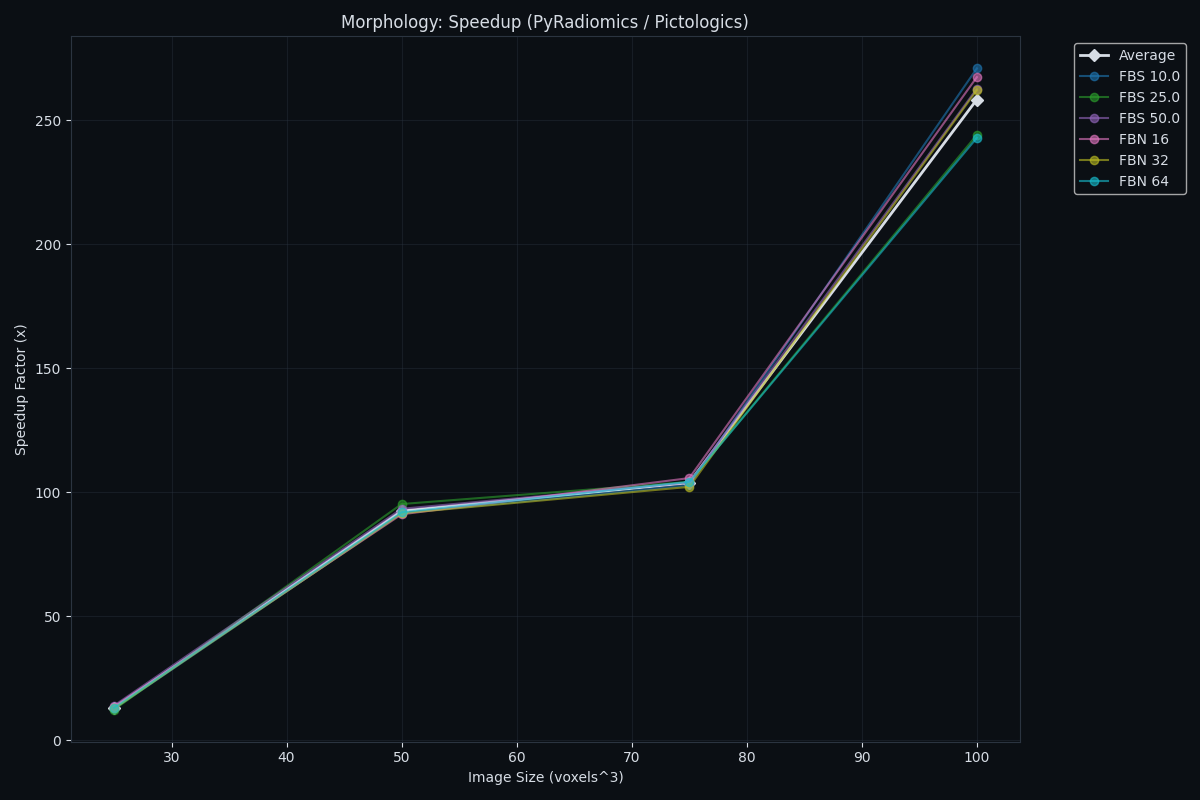
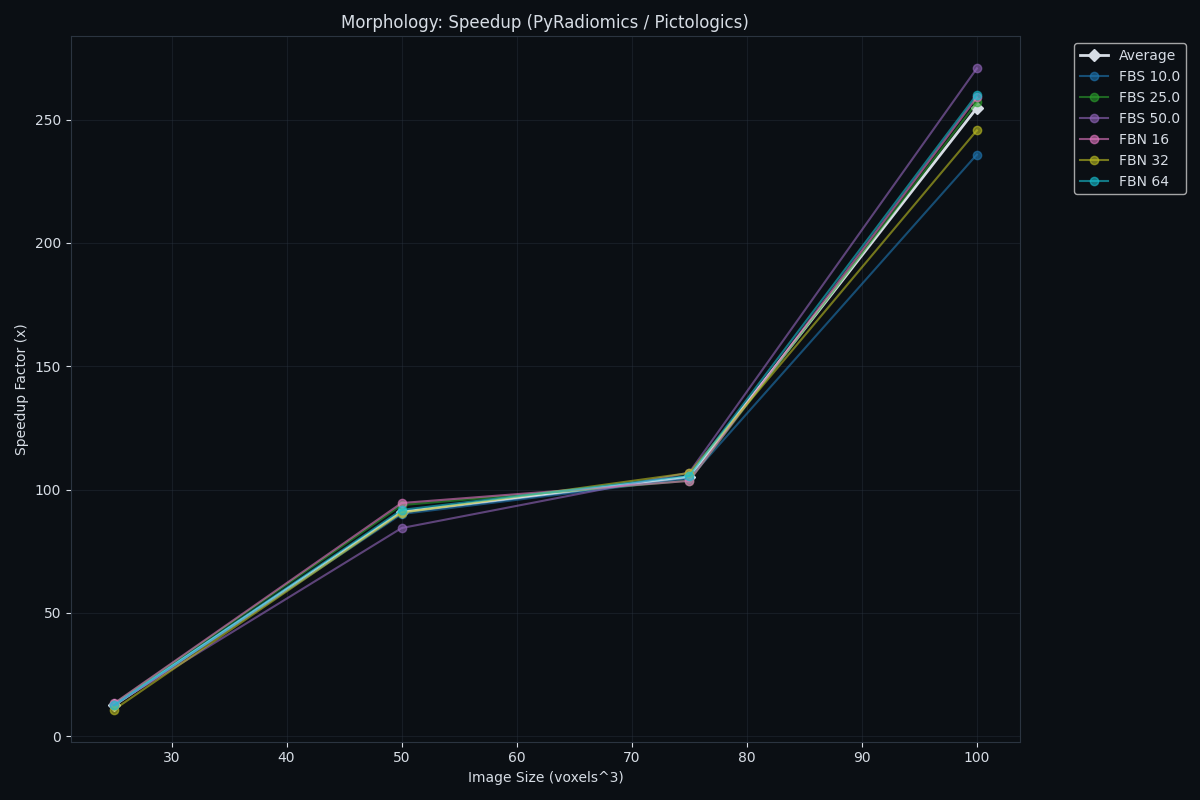
Update workflow and benchmark plots in documentation

diff --git a/docs/benchmarks.md b/docs/benchmarks.md
@@ -34,18 +34,18 @@ Note: the benchmark script explicitly calls `warmup_jit()` before timing to avoi
 
 |   Size | Discretization   | Pictologics-only Time   | Pictologics-only Mem   |
 |-------:|:-----------------|:------------------------|:-----------------------|
-|     25 | FBS 10.0         | 0.0324 s                | 0.81 MB                |
-|     25 | FBS 25.0         | 0.0267 s                | 0.81 MB                |
-|     25 | FBS 50.0         | 0.0277 s                | 0.81 MB                |
-|     25 | FBN 16           | 0.0281 s                | 0.81 MB                |
-|     25 | FBN 32           | 0.0289 s                | 0.81 MB                |
-|     25 | FBN 64           | 0.0301 s                | 0.81 MB                |
-|     50 | FBS 10.0         | 1.3024 s                | 6.33 MB                |
-|     50 | FBS 25.0         | 1.2929 s                | 6.33 MB                |
-|     50 | FBS 50.0         | 1.2979 s                | 6.33 MB                |
-|     50 | FBN 16           | 1.2876 s                | 6.33 MB                |
-|     50 | FBN 32           | 1.2959 s                | 6.33 MB                |
-|     50 | FBN 64           | 1.3105 s                | 6.33 MB                |
+|     25 | FBS 10.0         | 0.0338 s                | 0.81 MB                |
+|     25 | FBS 25.0         | 0.0291 s                | 0.81 MB                |
+|     25 | FBS 50.0         | 0.0281 s                | 0.81 MB                |
+|     25 | FBN 16           | 0.0327 s                | 0.81 MB                |
+|     25 | FBN 32           | 0.0368 s                | 0.81 MB                |
+|     25 | FBN 64           | 0.0364 s                | 0.81 MB                |
+|     50 | FBS 10.0         | 1.3986 s                | 6.33 MB                |
+|     50 | FBS 25.0         | 1.3755 s                | 6.33 MB                |
+|     50 | FBS 50.0         | 1.3878 s                | 6.33 MB                |
+|     50 | FBN 16           | 1.3481 s                | 6.33 MB                |
+|     50 | FBN 32           | 1.3709 s                | 6.33 MB                |
+|     50 | FBN 64           | 1.3488 s                | 6.33 MB                |
 |     75 | FBS 10.0         | Not calculated          | Not calculated         |
 |     75 | FBS 25.0         | Not calculated          | Not calculated         |
 |     75 | FBS 50.0         | Not calculated          | Not calculated         |
@@ -70,30 +70,30 @@ Note: the benchmark script explicitly calls `warmup_jit()` before timing to avoi
 
 |   Size | Discretization   | Pictologics-only Time   | Pictologics-only Mem   |
 |-------:|:-----------------|:------------------------|:-----------------------|
-|     25 | FBS 10.0         | 0.0041 s                | 1.11 MB                |
+|     25 | FBS 10.0         | 0.0040 s                | 1.11 MB                |
 |     25 | FBS 25.0         | 0.0042 s                | 1.11 MB                |
-|     25 | FBS 50.0         | 0.0042 s                | 1.11 MB                |
-|     25 | FBN 16           | 0.0044 s                | 1.11 MB                |
-|     25 | FBN 32           | 0.0040 s                | 1.10 MB                |
-|     25 | FBN 64           | 0.0038 s                | 1.11 MB                |
-|     50 | FBS 10.0         | 0.0106 s                | 5.37 MB                |
-|     50 | FBS 25.0         | 0.0106 s                | 5.37 MB                |
-|     50 | FBS 50.0         | 0.0107 s                | 5.37 MB                |
+|     25 | FBS 50.0         | 0.0043 s                | 1.11 MB                |
+|     25 | FBN 16           | 0.0045 s                | 1.11 MB                |
+|     25 | FBN 32           | 0.0050 s                | 1.11 MB                |
+|     25 | FBN 64           | 0.0056 s                | 1.10 MB                |
+|     50 | FBS 10.0         | 0.0108 s                | 5.37 MB                |
+|     50 | FBS 25.0         | 0.0101 s                | 5.37 MB                |
+|     50 | FBS 50.0         | 0.0103 s                | 5.37 MB                |
 |     50 | FBN 16           | 0.0106 s                | 5.37 MB                |
-|     50 | FBN 32           | 0.0107 s                | 5.37 MB                |
+|     50 | FBN 32           | 0.0114 s                | 5.37 MB                |
 |     50 | FBN 64           | 0.0105 s                | 5.37 MB                |
 |     75 | FBS 10.0         | 0.0170 s                | 8.77 MB                |
-|     75 | FBS 25.0         | 0.0168 s                | 8.77 MB                |
-|     75 | FBS 50.0         | 0.0165 s                | 8.77 MB                |
-|     75 | FBN 16           | 0.0159 s                | 8.77 MB                |
-|     75 | FBN 32           | 0.0164 s                | 8.77 MB                |
-|     75 | FBN 64           | 0.0159 s                | 8.77 MB                |
-|    100 | FBS 10.0         | 0.0317 s                | 20.40 MB               |
-|    100 | FBS 25.0         | 0.0325 s                | 20.40 MB               |
-|    100 | FBS 50.0         | 0.0319 s                | 20.40 MB               |
-|    100 | FBN 16           | 0.0320 s                | 20.40 MB               |
-|    100 | FBN 32           | 0.0319 s                | 20.40 MB               |
-|    100 | FBN 64           | 0.0343 s                | 20.40 MB               |
+|     75 | FBS 25.0         | 0.0172 s                | 8.77 MB                |
+|     75 | FBS 50.0         | 0.0166 s                | 8.77 MB                |
+|     75 | FBN 16           | 0.0167 s                | 8.77 MB                |
+|     75 | FBN 32           | 0.0168 s                | 8.77 MB                |
+|     75 | FBN 64           | 0.0173 s                | 8.77 MB                |
+|    100 | FBS 10.0         | 0.0346 s                | 20.40 MB               |
+|    100 | FBS 25.0         | 0.0329 s                | 20.40 MB               |
+|    100 | FBS 50.0         | 0.0325 s                | 20.40 MB               |
+|    100 | FBN 16           | 0.0323 s                | 20.40 MB               |
+|    100 | FBN 32           | 0.0334 s                | 20.40 MB               |
+|    100 | FBN 64           | 0.0331 s                | 20.40 MB               |
 
 
 ### Texture
@@ -113,11 +113,11 @@ Note: the benchmark script explicitly calls `warmup_jit()` before timing to avoi
 |     25 | FBN 32           | 0.0002 s                | 0.07 MB                |
 |     25 | FBN 64           | 0.0002 s                | 0.07 MB                |
 |     50 | FBS 10.0         | 0.0002 s                | 0.10 MB                |
-|     50 | FBS 25.0         | 0.0003 s                | 0.08 MB                |
-|     50 | FBS 50.0         | 0.0002 s                | 0.07 MB                |
+|     50 | FBS 25.0         | 0.0002 s                | 0.08 MB                |
+|     50 | FBS 50.0         | 0.0003 s                | 0.07 MB                |
 |     50 | FBN 16           | 0.0002 s                | 0.07 MB                |
-|     50 | FBN 32           | 0.0003 s                | 0.07 MB                |
-|     50 | FBN 64           | 0.0003 s                | 0.09 MB                |
+|     50 | FBN 32           | 0.0002 s                | 0.07 MB                |
+|     50 | FBN 64           | 0.0002 s                | 0.09 MB                |
 |     75 | FBS 10.0         | 0.0003 s                | 0.15 MB                |
 |     75 | FBS 25.0         | 0.0003 s                | 0.10 MB                |
 |     75 | FBS 50.0         | 0.0003 s                | 0.08 MB                |
@@ -128,84 +128,84 @@ Note: the benchmark script explicitly calls `warmup_jit()` before timing to avoi
 |    100 | FBS 25.0         | 0.0003 s                | 0.09 MB                |
 |    100 | FBS 50.0         | 0.0003 s                | 0.08 MB                |
 |    100 | FBN 16           | 0.0003 s                | 0.07 MB                |
-|    100 | FBN 32           | 0.0003 s                | 0.09 MB                |
-|    100 | FBN 64           | 0.0003 s                | 0.11 MB                |
+|    100 | FBN 32           | 0.0004 s                | 0.09 MB                |
+|    100 | FBN 64           | 0.0004 s                | 0.11 MB                |
 
 
 ### Detailed Parity Results
 
 | Family     |   Size | Discretization   | Pictologics Time   | PyRadiomics Time   | Speedup   | Pictologics Mem   | PyRadiomics Mem   |
 |:-----------|-------:|:-----------------|:-------------------|:-------------------|:----------|:------------------|:------------------|
-| Intensity  |     25 | FBN 16           | 0.0008 s           | 0.0132 s           | 17.38x    | 0.24 MB           | 0.71 MB           |
-| Intensity  |     25 | FBN 32           | 0.0009 s           | 0.0128 s           | 13.98x    | 0.24 MB           | 0.71 MB           |
-| Intensity  |     25 | FBN 64           | 0.0008 s           | 0.0125 s           | 14.87x    | 0.24 MB           | 0.71 MB           |
-| Intensity  |     25 | FBS 10.0         | 0.0008 s           | 0.0135 s           | 17.39x    | 0.24 MB           | 0.74 MB           |
-| Intensity  |     25 | FBS 25.0         | 0.0008 s           | 0.0128 s           | 15.20x    | 0.24 MB           | 0.71 MB           |
-| Intensity  |     25 | FBS 50.0         | 0.0009 s           | 0.0130 s           | 14.96x    | 0.24 MB           | 0.71 MB           |
-| Intensity  |     50 | FBN 16           | 0.0029 s           | 0.0625 s           | 21.72x    | 1.40 MB           | 4.61 MB           |
-| Intensity  |     50 | FBN 32           | 0.0029 s           | 0.0633 s           | 21.65x    | 1.40 MB           | 4.61 MB           |
-| Intensity  |     50 | FBN 64           | 0.0031 s           | 0.0657 s           | 21.08x    | 1.40 MB           | 4.61 MB           |
-| Intensity  |     50 | FBS 10.0         | 0.0028 s           | 0.0655 s           | 23.15x    | 1.40 MB           | 4.61 MB           |
-| Intensity  |     50 | FBS 25.0         | 0.0035 s           | 0.0643 s           | 18.22x    | 1.40 MB           | 4.61 MB           |
-| Intensity  |     50 | FBS 50.0         | 0.0030 s           | 0.0634 s           | 21.45x    | 1.40 MB           | 4.61 MB           |
-| Intensity  |     75 | FBN 16           | 0.0104 s           | 0.2441 s           | 23.46x    | 5.81 MB           | 17.95 MB          |
-| Intensity  |     75 | FBN 32           | 0.0108 s           | 0.2493 s           | 23.12x    | 5.81 MB           | 17.95 MB          |
-| Intensity  |     75 | FBN 64           | 0.0107 s           | 0.2501 s           | 23.28x    | 5.81 MB           | 17.95 MB          |
-| Intensity  |     75 | FBS 10.0         | 0.0116 s           | 0.2572 s           | 22.20x    | 5.81 MB           | 17.95 MB          |
-| Intensity  |     75 | FBS 25.0         | 0.0112 s           | 0.2538 s           | 22.62x    | 5.81 MB           | 17.95 MB          |
-| Intensity  |     75 | FBS 50.0         | 0.0110 s           | 0.2499 s           | 22.71x    | 5.81 MB           | 17.95 MB          |
-| Intensity  |    100 | FBN 16           | 0.0208 s           | 0.5077 s           | 24.36x    | 12.16 MB          | 39.01 MB          |
-| Intensity  |    100 | FBN 32           | 0.0214 s           | 0.5039 s           | 23.55x    | 12.16 MB          | 39.01 MB          |
-| Intensity  |    100 | FBN 64           | 0.0248 s           | 0.5128 s           | 20.70x    | 12.16 MB          | 39.01 MB          |
-| Intensity  |    100 | FBS 10.0         | 0.0225 s           | 0.5146 s           | 22.83x    | 12.16 MB          | 39.01 MB          |
-| Intensity  |    100 | FBS 25.0         | 0.0231 s           | 0.5151 s           | 22.29x    | 12.16 MB          | 39.01 MB          |
-| Intensity  |    100 | FBS 50.0         | 0.0209 s           | 0.5127 s           | 24.50x    | 12.16 MB          | 39.00 MB          |
-| Morphology |     25 | FBN 16           | 0.0038 s           | 0.0521 s           | 13.56x    | 1.11 MB           | 1.18 MB           |
-| Morphology |     25 | FBN 32           | 0.0040 s           | 0.0512 s           | 12.79x    | 1.11 MB           | 1.18 MB           |
-| Morphology |     25 | FBN 64           | 0.0038 s           | 0.0501 s           | 13.02x    | 1.11 MB           | 1.18 MB           |
-| Morphology |     25 | FBS 10.0         | 0.0041 s           | 0.0510 s           | 12.58x    | 1.11 MB           | 1.18 MB           |
-| Morphology |     25 | FBS 25.0         | 0.0041 s           | 0.0507 s           | 12.30x    | 1.11 MB           | 1.18 MB           |
-| Morphology |     25 | FBS 50.0         | 0.0037 s           | 0.0520 s           | 13.91x    | 1.11 MB           | 1.18 MB           |
-| Morphology |     50 | FBN 16           | 0.0104 s           | 0.9495 s           | 91.09x    | 5.37 MB           | 8.68 MB           |
-| Morphology |     50 | FBN 32           | 0.0103 s           | 0.9449 s           | 91.49x    | 5.37 MB           | 8.68 MB           |
-| Morphology |     50 | FBN 64           | 0.0104 s           | 0.9577 s           | 91.89x    | 5.37 MB           | 8.68 MB           |
-| Morphology |     50 | FBS 10.0         | 0.0104 s           | 0.9545 s           | 91.58x    | 5.37 MB           | 8.68 MB           |
-| Morphology |     50 | FBS 25.0         | 0.0100 s           | 0.9476 s           | 95.23x    | 5.37 MB           | 8.68 MB           |
-| Morphology |     50 | FBS 50.0         | 0.0101 s           | 0.9420 s           | 93.32x    | 5.37 MB           | 8.68 MB           |
-| Morphology |     75 | FBN 16           | 0.0159 s           | 1.6769 s           | 105.70x   | 8.77 MB           | 36.60 MB          |
-| Morphology |     75 | FBN 32           | 0.0162 s           | 1.6589 s           | 102.17x   | 8.77 MB           | 36.60 MB          |
-| Morphology |     75 | FBN 64           | 0.0160 s           | 1.6684 s           | 104.20x   | 8.77 MB           | 36.60 MB          |
-| Morphology |     75 | FBS 10.0         | 0.0168 s           | 1.7313 s           | 102.85x   | 8.77 MB           | 36.60 MB          |
-| Morphology |     75 | FBS 25.0         | 0.0164 s           | 1.7055 s           | 104.18x   | 8.77 MB           | 36.60 MB          |
-| Morphology |     75 | FBS 50.0         | 0.0166 s           | 1.7286 s           | 103.90x   | 8.77 MB           | 36.60 MB          |
-| Morphology |    100 | FBN 16           | 0.0310 s           | 8.2976 s           | 267.42x   | 20.40 MB          | 77.49 MB          |
-| Morphology |    100 | FBN 32           | 0.0315 s           | 8.2656 s           | 262.18x   | 20.40 MB          | 77.49 MB          |
-| Morphology |    100 | FBN 64           | 0.0338 s           | 8.2164 s           | 242.93x   | 20.40 MB          | 77.49 MB          |
-| Morphology |    100 | FBS 10.0         | 0.0310 s           | 8.4072 s           | 270.94x   | 20.40 MB          | 77.49 MB          |
-| Morphology |    100 | FBS 25.0         | 0.0343 s           | 8.3736 s           | 244.10x   | 20.40 MB          | 77.49 MB          |
-| Morphology |    100 | FBS 50.0         | 0.0315 s           | 8.2861 s           | 262.78x   | 20.40 MB          | 77.49 MB          |
-| Texture    |     25 | FBN 16           | 0.0049 s           | 0.0478 s           | 9.73x     | 2.13 MB           | 0.69 MB           |
-| Texture    |     25 | FBN 32           | 0.0057 s           | 0.0508 s           | 8.94x     | 2.07 MB           | 0.75 MB           |
-| Texture    |     25 | FBN 64           | 0.0053 s           | 0.0621 s           | 11.77x    | 4.53 MB           | 1.94 MB           |
-| Texture    |     25 | FBS 10.0         | 0.0073 s           | 0.0889 s           | 12.25x    | 10.10 MB          | 3.77 MB           |
-| Texture    |     25 | FBS 25.0         | 0.0058 s           | 0.0517 s           | 8.89x     | 2.16 MB           | 0.91 MB           |
-| Texture    |     25 | FBS 50.0         | 0.0050 s           | 0.0482 s           | 9.69x     | 2.13 MB           | 0.71 MB           |
-| Texture    |     50 | FBN 16           | 0.0220 s           | 0.2931 s           | 13.35x    | 19.85 MB          | 6.29 MB           |
-| Texture    |     50 | FBN 32           | 0.0237 s           | 0.2999 s           | 12.67x    | 19.95 MB          | 6.29 MB           |
-| Texture    |     50 | FBN 64           | 0.0180 s           | 0.3189 s           | 17.69x    | 9.83 MB           | 4.82 MB           |
-| Texture    |     50 | FBS 10.0         | 0.0178 s           | 0.3517 s           | 19.72x    | 11.96 MB          | 5.41 MB           |
-| Texture    |     50 | FBS 25.0         | 0.0237 s           | 0.3033 s           | 12.78x    | 19.30 MB          | 6.09 MB           |
-| Texture    |     50 | FBS 50.0         | 0.0237 s           | 0.2968 s           | 12.53x    | 21.08 MB          | 6.60 MB           |
-| Texture    |     75 | FBN 16           | 0.0702 s           | 1.1862 s           | 16.90x    | 84.43 MB          | 25.62 MB          |
-| Texture    |     75 | FBN 32           | 0.0781 s           | 1.1797 s           | 15.10x    | 86.59 MB          | 26.22 MB          |
-| Texture    |     75 | FBN 64           | 0.0637 s           | 1.2079 s           | 18.96x    | 63.72 MB          | 20.14 MB          |
-| Texture    |     75 | FBS 10.0         | 0.0486 s           | 1.2407 s           | 25.54x    | 13.36 MB          | 17.08 MB          |
-| Texture    |     75 | FBS 25.0         | 0.0803 s           | 1.1946 s           | 14.87x    | 89.44 MB          | 25.80 MB          |
-| Texture    |     75 | FBS 50.0         | 0.0753 s           | 1.2248 s           | 16.27x    | 88.88 MB          | 25.65 MB          |
-| Texture    |    100 | FBN 16           | 0.1675 s           | 2.4330 s           | 14.52x    | 213.37 MB         | 64.12 MB          |
-| Texture    |    100 | FBN 32           | 0.1859 s           | 2.4364 s           | 13.10x    | 224.11 MB         | 66.17 MB          |
-| Texture    |    100 | FBN 64           | 0.1922 s           | 2.4449 s           | 12.72x    | 204.71 MB         | 60.72 MB          |
-| Texture    |    100 | FBS 10.0         | 0.0991 s           | 2.5537 s           | 25.77x    | 22.17 MB          | 37.15 MB          |
-| Texture    |    100 | FBS 25.0         | 0.2054 s           | 2.4582 s           | 11.97x    | 230.74 MB         | 68.10 MB          |
-| Texture    |    100 | FBS 50.0         | 0.1926 s           | 2.4373 s           | 12.65x    | 229.77 MB         | 68.48 MB          |
+| Intensity  |     25 | FBN 16           | 0.0008 s           | 0.0131 s           | 17.04x    | 0.24 MB           | 0.71 MB           |
+| Intensity  |     25 | FBN 32           | 0.0007 s           | 0.0141 s           | 19.27x    | 0.24 MB           | 0.71 MB           |
+| Intensity  |     25 | FBN 64           | 0.0008 s           | 0.0142 s           | 17.34x    | 0.24 MB           | 0.71 MB           |
+| Intensity  |     25 | FBS 10.0         | 0.0008 s           | 0.0167 s           | 20.63x    | 0.24 MB           | 0.74 MB           |
+| Intensity  |     25 | FBS 25.0         | 0.0008 s           | 0.0128 s           | 16.73x    | 0.24 MB           | 0.71 MB           |
+| Intensity  |     25 | FBS 50.0         | 0.0007 s           | 0.0140 s           | 19.10x    | 0.24 MB           | 0.71 MB           |
+| Intensity  |     50 | FBN 16           | 0.0030 s           | 0.0678 s           | 22.63x    | 1.40 MB           | 4.61 MB           |
+| Intensity  |     50 | FBN 32           | 0.0030 s           | 0.0665 s           | 21.98x    | 1.40 MB           | 4.61 MB           |
+| Intensity  |     50 | FBN 64           | 0.0034 s           | 0.0650 s           | 18.86x    | 1.40 MB           | 4.61 MB           |
+| Intensity  |     50 | FBS 10.0         | 0.0031 s           | 0.0693 s           | 22.08x    | 1.40 MB           | 4.61 MB           |
+| Intensity  |     50 | FBS 25.0         | 0.0030 s           | 0.0655 s           | 21.48x    | 1.40 MB           | 4.61 MB           |
+| Intensity  |     50 | FBS 50.0         | 0.0029 s           | 0.0679 s           | 23.48x    | 1.40 MB           | 4.61 MB           |
+| Intensity  |     75 | FBN 16           | 0.0112 s           | 0.2558 s           | 22.83x    | 5.81 MB           | 17.95 MB          |
+| Intensity  |     75 | FBN 32           | 0.0114 s           | 0.2508 s           | 22.07x    | 5.81 MB           | 17.95 MB          |
+| Intensity  |     75 | FBN 64           | 0.0116 s           | 0.2633 s           | 22.69x    | 5.81 MB           | 17.95 MB          |
+| Intensity  |     75 | FBS 10.0         | 0.0123 s           | 0.2681 s           | 21.83x    | 5.81 MB           | 17.95 MB          |
+| Intensity  |     75 | FBS 25.0         | 0.0116 s           | 0.2630 s           | 22.68x    | 5.81 MB           | 17.95 MB          |
+| Intensity  |     75 | FBS 50.0         | 0.0109 s           | 0.2552 s           | 23.47x    | 5.81 MB           | 17.95 MB          |
+| Intensity  |    100 | FBN 16           | 0.0207 s           | 0.5109 s           | 24.69x    | 12.16 MB          | 39.01 MB          |
+| Intensity  |    100 | FBN 32           | 0.0227 s           | 0.5174 s           | 22.83x    | 12.16 MB          | 39.01 MB          |
+| Intensity  |    100 | FBN 64           | 0.0228 s           | 0.5274 s           | 23.15x    | 12.16 MB          | 39.01 MB          |
+| Intensity  |    100 | FBS 10.0         | 0.0258 s           | 0.5471 s           | 21.23x    | 12.16 MB          | 39.01 MB          |
+| Intensity  |    100 | FBS 25.0         | 0.0245 s           | 0.5285 s           | 21.60x    | 12.16 MB          | 39.01 MB          |
+| Intensity  |    100 | FBS 50.0         | 0.0209 s           | 0.5102 s           | 24.37x    | 12.16 MB          | 39.01 MB          |
+| Morphology |     25 | FBN 16           | 0.0040 s           | 0.0536 s           | 13.34x    | 1.11 MB           | 1.18 MB           |
+| Morphology |     25 | FBN 32           | 0.0051 s           | 0.0549 s           | 10.81x    | 1.11 MB           | 1.18 MB           |
+| Morphology |     25 | FBN 64           | 0.0045 s           | 0.0562 s           | 12.62x    | 1.11 MB           | 1.18 MB           |
+| Morphology |     25 | FBS 10.0         | 0.0041 s           | 0.0517 s           | 12.52x    | 1.11 MB           | 1.18 MB           |
+| Morphology |     25 | FBS 25.0         | 0.0040 s           | 0.0521 s           | 13.19x    | 1.11 MB           | 1.18 MB           |
+| Morphology |     25 | FBS 50.0         | 0.0041 s           | 0.0525 s           | 12.84x    | 1.11 MB           | 1.18 MB           |
+| Morphology |     50 | FBN 16           | 0.0102 s           | 0.9643 s           | 94.57x    | 5.37 MB           | 8.68 MB           |
+| Morphology |     50 | FBN 32           | 0.0107 s           | 0.9692 s           | 90.69x    | 5.37 MB           | 8.68 MB           |
+| Morphology |     50 | FBN 64           | 0.0105 s           | 0.9629 s           | 91.78x    | 5.37 MB           | 8.68 MB           |
+| Morphology |     50 | FBS 10.0         | 0.0104 s           | 0.9326 s           | 90.09x    | 5.37 MB           | 8.68 MB           |
+| Morphology |     50 | FBS 25.0         | 0.0101 s           | 0.9486 s           | 93.73x    | 5.37 MB           | 8.68 MB           |
+| Morphology |     50 | FBS 50.0         | 0.0114 s           | 0.9589 s           | 84.42x    | 5.37 MB           | 8.68 MB           |
+| Morphology |     75 | FBN 16           | 0.0167 s           | 1.7319 s           | 103.55x   | 8.77 MB           | 36.60 MB          |
+| Morphology |     75 | FBN 32           | 0.0163 s           | 1.7432 s           | 106.73x   | 8.77 MB           | 36.60 MB          |
+| Morphology |     75 | FBN 64           | 0.0163 s           | 1.7210 s           | 105.58x   | 8.77 MB           | 36.60 MB          |
+| Morphology |     75 | FBS 10.0         | 0.0168 s           | 1.7579 s           | 104.50x   | 8.77 MB           | 36.60 MB          |
+| Morphology |     75 | FBS 25.0         | 0.0169 s           | 1.7515 s           | 103.60x   | 8.77 MB           | 36.60 MB          |
+| Morphology |     75 | FBS 50.0         | 0.0162 s           | 1.7328 s           | 106.89x   | 8.77 MB           | 36.60 MB          |
+| Morphology |    100 | FBN 16           | 0.0327 s           | 8.4654 s           | 259.01x   | 20.40 MB          | 77.49 MB          |
+| Morphology |    100 | FBN 32           | 0.0344 s           | 8.4468 s           | 245.60x   | 20.40 MB          | 77.49 MB          |
+| Morphology |    100 | FBN 64           | 0.0325 s           | 8.4553 s           | 260.15x   | 20.40 MB          | 77.49 MB          |
+| Morphology |    100 | FBS 10.0         | 0.0372 s           | 8.7632 s           | 235.81x   | 20.40 MB          | 77.49 MB          |
+| Morphology |    100 | FBS 25.0         | 0.0339 s           | 8.7034 s           | 256.94x   | 20.40 MB          | 77.49 MB          |
+| Morphology |    100 | FBS 50.0         | 0.0315 s           | 8.5339 s           | 270.73x   | 20.40 MB          | 77.49 MB          |
+| Texture    |     25 | FBN 16           | 0.0054 s           | 0.0490 s           | 9.01x     | 2.13 MB           | 0.69 MB           |
+| Texture    |     25 | FBN 32           | 0.0055 s           | 0.0526 s           | 9.52x     | 2.07 MB           | 0.75 MB           |
+| Texture    |     25 | FBN 64           | 0.0065 s           | 0.0669 s           | 10.31x    | 4.53 MB           | 1.94 MB           |
+| Texture    |     25 | FBS 10.0         | 0.0070 s           | 0.0929 s           | 13.19x    | 10.10 MB          | 3.77 MB           |
+| Texture    |     25 | FBS 25.0         | 0.0055 s           | 0.0529 s           | 9.70x     | 2.16 MB           | 0.91 MB           |
+| Texture    |     25 | FBS 50.0         | 0.0049 s           | 0.0499 s           | 10.09x    | 2.13 MB           | 0.71 MB           |
+| Texture    |     50 | FBN 16           | 0.0232 s           | 0.3049 s           | 13.15x    | 19.85 MB          | 6.29 MB           |
+| Texture    |     50 | FBN 32           | 0.0272 s           | 0.3064 s           | 11.25x    | 19.95 MB          | 6.29 MB           |
+| Texture    |     50 | FBN 64           | 0.0185 s           | 0.3247 s           | 17.52x    | 9.83 MB           | 4.82 MB           |
+| Texture    |     50 | FBS 10.0         | 0.0177 s           | 0.3546 s           | 20.08x    | 11.96 MB          | 5.41 MB           |
+| Texture    |     50 | FBS 25.0         | 0.0241 s           | 0.3082 s           | 12.77x    | 19.30 MB          | 6.09 MB           |
+| Texture    |     50 | FBS 50.0         | 0.0252 s           | 0.3011 s           | 11.94x    | 21.08 MB          | 6.60 MB           |
+| Texture    |     75 | FBN 16           | 0.0804 s           | 1.2068 s           | 15.02x    | 84.43 MB          | 25.62 MB          |
+| Texture    |     75 | FBN 32           | 0.0784 s           | 1.2143 s           | 15.50x    | 86.59 MB          | 26.23 MB          |
+| Texture    |     75 | FBN 64           | 0.0683 s           | 1.2584 s           | 18.42x    | 63.72 MB          | 20.14 MB          |
+| Texture    |     75 | FBS 10.0         | 0.0498 s           | 1.2776 s           | 25.66x    | 13.36 MB          | 17.08 MB          |
+| Texture    |     75 | FBS 25.0         | 0.0885 s           | 1.2097 s           | 13.66x    | 89.44 MB          | 25.80 MB          |
+| Texture    |     75 | FBS 50.0         | 0.0785 s           | 1.2392 s           | 15.79x    | 88.88 MB          | 25.65 MB          |
+| Texture    |    100 | FBN 16           | 0.1793 s           | 2.4813 s           | 13.84x    | 213.37 MB         | 64.12 MB          |
+| Texture    |    100 | FBN 32           | 0.1958 s           | 2.4967 s           | 12.75x    | 224.11 MB         | 66.17 MB          |
+| Texture    |    100 | FBN 64           | 0.1955 s           | 2.4948 s           | 12.76x    | 204.71 MB         | 60.71 MB          |
+| Texture    |    100 | FBS 10.0         | 0.1071 s           | 2.6041 s           | 24.32x    | 22.17 MB          | 37.15 MB          |
+| Texture    |    100 | FBS 25.0         | 0.2071 s           | 2.5108 s           | 12.12x    | 230.74 MB         | 68.10 MB          |
+| Texture    |    100 | FBS 50.0         | 0.1858 s           | 2.4789 s           | 13.34x    | 229.77 MB         | 68.48 MB          |
 

diff --git a/README.md b/README.md
@@ -1,14 +1,14 @@
 # Pictologics
 
 <p align="center">
-    <img src="docs/assets/logo.png" width="220" alt="Pictologics logo" />
+    <img src="https://raw.githubusercontent.com/martonkolossvary/pictologics/main/docs/assets/logo.png" width="220" alt="Pictologics logo" />
 </p>
 
 [![CI](https://github.com/martonkolossvary/pictologics/actions/workflows/ci.yml/badge.svg)](https://github.com/martonkolossvary/pictologics/actions/workflows/ci.yml)
 [![Docs](https://img.shields.io/badge/docs-GitHub%20Pages-blue)](https://martonkolossvary.github.io/pictologics/)
 [![PyPI](https://img.shields.io/pypi/v/pictologics)](https://pypi.org/project/pictologics/)
 [![Python](https://img.shields.io/pypi/pyversions/pictologics)](https://pypi.org/project/pictologics/)
-[![License](https://img.shields.io/github/license/martonkolossvary/pictologics)](LICENSE)
+[![License](https://img.shields.io/github/license/martonkolossvary/pictologics)](https://github.com/martonkolossvary/pictologics/blob/main/LICENSE)
 [![codecov](https://codecov.io/gh/martonkolossvary/pictologics/graph/badge.svg)](https://codecov.io/gh/martonkolossvary/pictologics)
 [![Ruff](https://img.shields.io/badge/ruff-0%20issues-261230.svg)](https://github.com/astral-sh/ruff)
 [![Mypy](https://img.shields.io/badge/mypy-0%20errors-blue.svg)](https://mypy-lang.org/)
@@ -20,8 +20,8 @@ Documentation (User Guide, API, Benchmarks): https://martonkolossvary.github.io/
 
 ## Why Pictologics?
 
-*   **🚀 High Performance**: Uses `numba` for JIT compilation, achieving significant speedups over other libraries (speedups between 15-300x compared to pyradiomics, see [Benchmarks](benchmarks.md) page for details).
-*   **✅ IBSI Compliant**: Implements standard algorithms verified against the IBSI digital and CT phantom ([IBSI compliance](ibsi_compliance.md) page for details).
+*   **🚀 High Performance**: Uses `numba` for JIT compilation, achieving significant speedups over other libraries (speedups between 15-300x compared to pyradiomics, see [Benchmarks](https://martonkolossvary.github.io/pictologics/benchmarks/) page for details).
+*   **✅ IBSI Compliant**: Implements standard algorithms verified against the IBSI digital and CT phantom ([IBSI compliance](https://martonkolossvary.github.io/pictologics/ibsi_compliance/) page for details).
 *   **🔧 Flexible**: Configurable pipeline for reproducible research.
 *   **✨ Easy to Use**: Simple installation and a straightforward pipeline make it easy to get started quickly.
 *   **🛠 Actively Maintained**: Continuously maintained and developed with the intention to provide robust latent radiomic features that can reliably describe morphological characteristics of diseases on radiological images.
@@ -100,7 +100,7 @@ Note: the benchmark script explicitly calls `warmup_jit()` before timing to avoi
 
 | Execution Time (Log-Log) | Speedup |
 |:---:|:---:|
-| [![Intensity time](docs/assets/benchmarks/intensity_execution_time_log.png)](docs/assets/benchmarks/intensity_execution_time_log.png) | [![Intensity speedup](docs/assets/benchmarks/intensity_speedup_factor.png)](docs/assets/benchmarks/intensity_speedup_factor.png) |
+| [![Intensity time](https://raw.githubusercontent.com/martonkolossvary/pictologics/main/docs/assets/benchmarks/intensity_execution_time_log.png)](https://raw.githubusercontent.com/martonkolossvary/pictologics/main/docs/assets/benchmarks/intensity_execution_time_log.png) | [![Intensity speedup](https://raw.githubusercontent.com/martonkolossvary/pictologics/main/docs/assets/benchmarks/intensity_speedup_factor.png)](https://raw.githubusercontent.com/martonkolossvary/pictologics/main/docs/assets/benchmarks/intensity_speedup_factor.png) |
 
 
 
@@ -108,7 +108,7 @@ Note: the benchmark script explicitly calls `warmup_jit()` before timing to avoi
 
 | Execution Time (Log-Log) | Speedup |
 |:---:|:---:|
-| [![Morphology time](docs/assets/benchmarks/morphology_execution_time_log.png)](docs/assets/benchmarks/morphology_execution_time_log.png) | [![Morphology speedup](docs/assets/benchmarks/morphology_speedup_factor.png)](docs/assets/benchmarks/morphology_speedup_factor.png) |
+| [![Morphology time](https://raw.githubusercontent.com/martonkolossvary/pictologics/main/docs/assets/benchmarks/morphology_execution_time_log.png)](https://raw.githubusercontent.com/martonkolossvary/pictologics/main/docs/assets/benchmarks/morphology_execution_time_log.png) | [![Morphology speedup](https://raw.githubusercontent.com/martonkolossvary/pictologics/main/docs/assets/benchmarks/morphology_speedup_factor.png)](https://raw.githubusercontent.com/martonkolossvary/pictologics/main/docs/assets/benchmarks/morphology_speedup_factor.png) |
 
 
 
@@ -116,7 +116,7 @@ Note: the benchmark script explicitly calls `warmup_jit()` before timing to avoi
 
 | Execution Time (Log-Log) | Speedup |
 |:---:|:---:|
-| [![Texture time](docs/assets/benchmarks/texture_execution_time_log.png)](docs/assets/benchmarks/texture_execution_time_log.png) | [![Texture speedup](docs/assets/benchmarks/texture_speedup_factor.png)](docs/assets/benchmarks/texture_speedup_factor.png) |
+| [![Texture time](https://raw.githubusercontent.com/martonkolossvary/pictologics/main/docs/assets/benchmarks/texture_execution_time_log.png)](https://raw.githubusercontent.com/martonkolossvary/pictologics/main/docs/assets/benchmarks/texture_execution_time_log.png) | [![Texture speedup](https://raw.githubusercontent.com/martonkolossvary/pictologics/main/docs/assets/benchmarks/texture_speedup_factor.png)](https://raw.githubusercontent.com/martonkolossvary/pictologics/main/docs/assets/benchmarks/texture_speedup_factor.png) |
 
 
 

diff --git a/docs/quality.md b/docs/quality.md
@@ -1,6 +1,6 @@
 # Code Quality Report
 
-Generated on 2025-12-30 17:33:38
+Generated on 2025-12-30 18:41:20
 
 ## Test Coverage
 
